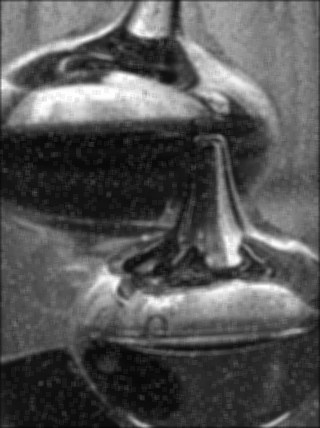
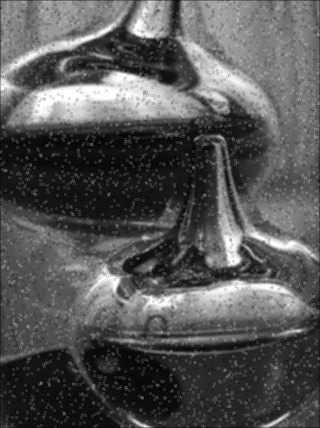
Fix pixel overflow

diff --git a/Filters/ass1.py b/Filters/ass1.py
@@ -53,7 +53,7 @@ def main():
     op = applyConvolution(lenaImg, lenaSize, sharpenFilter)
     cv.imwrite(lenaPath_sharpen, op)
     
-    # apply filters to the 'art.png' image
+    # # apply filters to the 'art.png' image
     op = applyConvolution(artImg, artSize, meanFilter)
     cv.imwrite(artPath_con_mean, op)
     op = applyCorrelation(artImg, artSize, meanFilter)
@@ -67,7 +67,6 @@ def getMeanKernel(size):
     kernel *= 1/(size**2)
     return kernel
 
-
 def getGaussianKernel(size, sigma=11):
     s = 2 * sigma**2
     denom = 1 / (np.pi * s)
@@ -80,33 +79,18 @@ def getGaussianKernel(size, sigma=11):
     
     return kernel
 
-
-def getSharpenKernel(size):
-    alpha = np.zeros((size, size))
-    alpha[size//2, size//2] = 2
+def getSharpenKernel(size, alpha=1):
+    center = np.zeros((size, size))
+    center[size//2, size//2] = alpha + 1
     
     meanFilter = getMeanKernel(size)
     
-    kernel = alpha -  meanFilter
+    kernel = center -  alpha * meanFilter
     return kernel
-
 
 def applyConvolution(ip, ipShape, kernel):
     kernel = np.flip(kernel)
-    opImg = np.empty(ipShape, 'uint8')
-    
-    for color in range(3):
-        for x in range(ipShape[0]):
-            for y in range(ipShape[1]):
-                dx = x + kernel.shape[0]
-                dy = y + kernel.shape[1]
-                opImg[x, y, color] = np.sum(ip[x:dx, y:dy, color] * kernel)
-
-    return opImg
-
-
-def applyCorrelation(ip, ipShape, kernel):
-    opImg = np.empty(ipShape, 'uint8')
+    opImg = np.empty(ipShape)
     
     for color in range(3):
         for x in range(ipShape[0]):
@@ -115,11 +99,25 @@ def applyCorrelation(ip, ipShape, kernel):
                 dy = y + kernel.shape[1]
                 opImg[x, y, color] = np.sum(ip[x:dx, y:dy, color] * kernel)
                 
+    opImg = clip(opImg)
     return opImg
 
 
+def applyCorrelation(ip, ipShape, kernel):
+    opImg = np.empty(ipShape)
+    
+    for color in range(3):
+        for x in range(ipShape[0]):
+            for y in range(ipShape[1]):
+                dx = x + kernel.shape[0]
+                dy = y + kernel.shape[1]
+                opImg[x, y, color] = np.sum(ip[x:dx, y:dy, color] * kernel)
+              
+    opImg = clip(opImg)
+    return opImg
+
 def applyMedianKernel(ip, ipShape, size):
-    opImg = np.empty(ipShape, 'uint8')
+    opImg = np.empty(ipShape)
     
     for color in range(3):
         for x in range(ipShape[0]):
@@ -127,9 +125,14 @@ def applyMedianKernel(ip, ipShape, size):
                 dx = x + size
                 dy = y + size
                 opImg[x, y, color] = np.median(ip[x:dx, y:dy, color])
-                
-    return opImg
     
+    opImg = clip(opImg)               
+    return opImg  
+
+def clip(ip):
+    np.clip(ip, 0, 255, ip)
+    ip = ip.astype('uint8')   
+    return ip
     
 if __name__ == '__main__':
     main()
